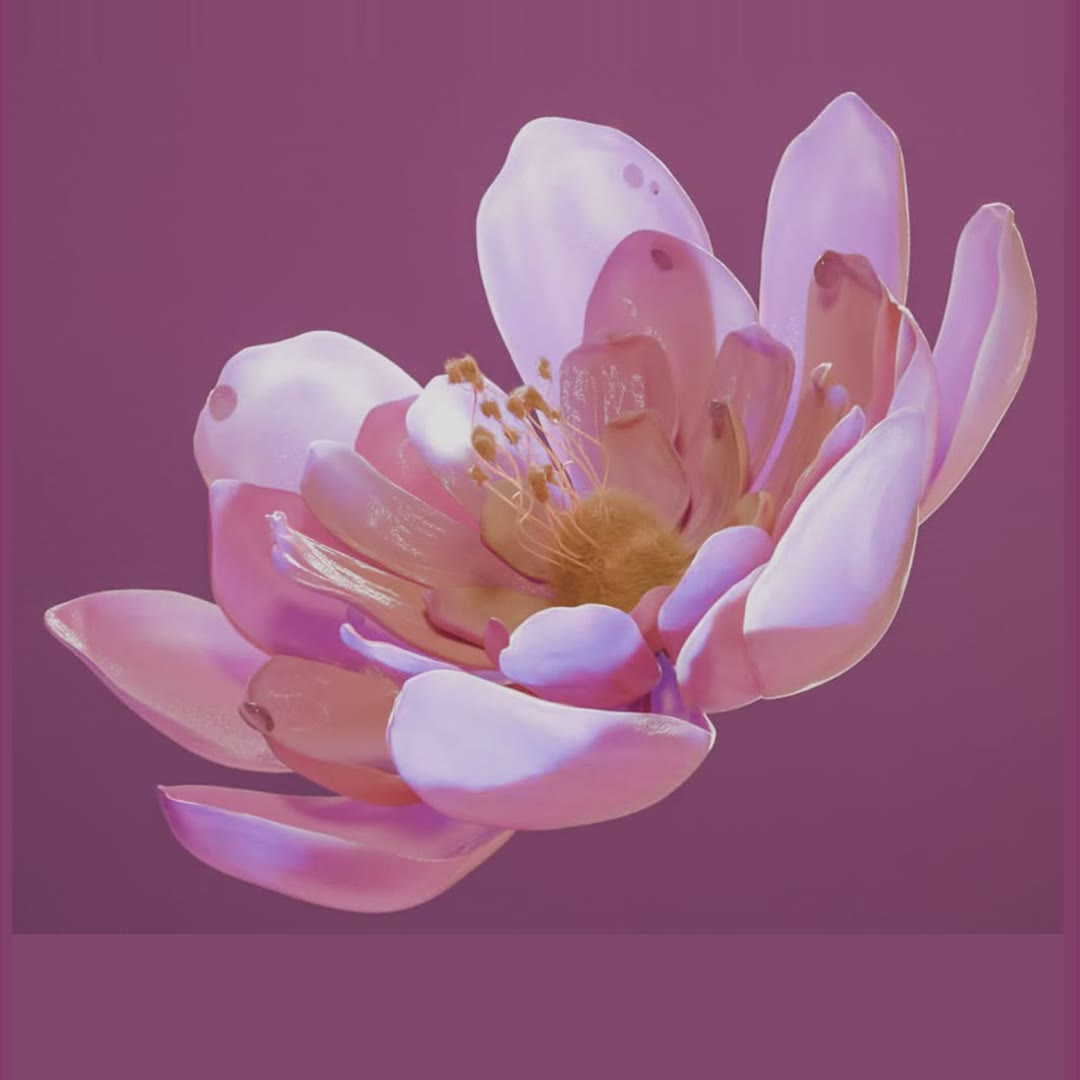
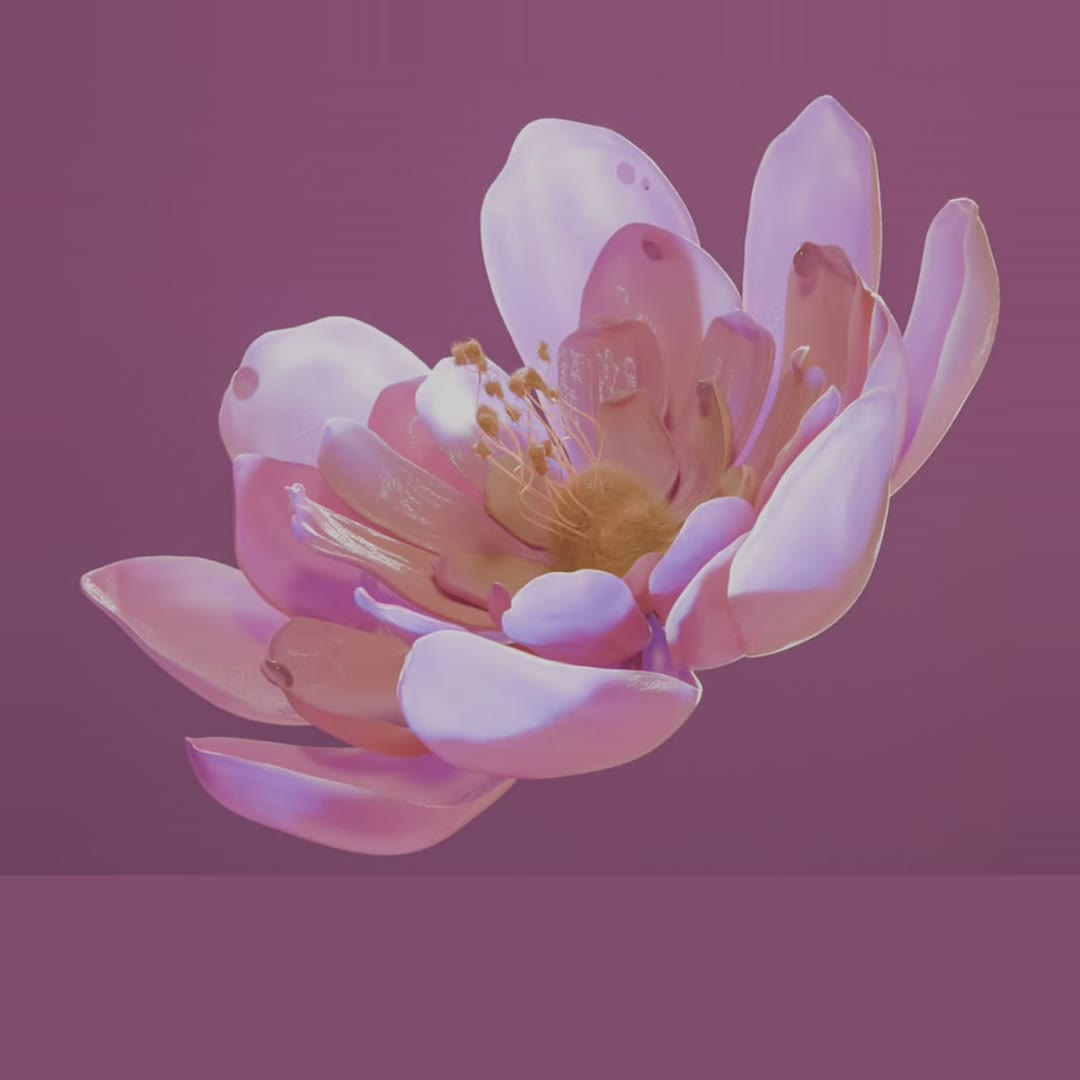
Match pink flower size/position to clay via overlay analysis (0.94x)
Use a colour-coded clay/pink overlay plus an overlap search to find the
best geometric match: scale the pink flower to 0.94x about its centre so
its silhouette (top-left petal, stamens, outer petals) lines up with the
clay stage instead of sitting oversized. Bump cache-bust to v10. Residual
top-left offset is the pink render's different camera angle.

Changed region(s): [[0.0306, 0.0611, 0.9778, 0.8556], [0.4583, 0.1222, 0.4889, 0.1528]]

diff --git a/index.html b/index.html
@@ -41,9 +41,9 @@
     <div class="hero-track" id="heroTrack">
       <div class="hero-sticky">
         <div class="hero-bg" aria-hidden="true">
-          <div class="hero-layer" style="background-image:url('images/hero.jpeg?v=9')"></div>
-          <div class="hero-layer" style="background-image:url('images/flower-grey.jpeg?v=9')"></div>
-          <div class="hero-layer" style="background-image:url('images/flower-pink.jpeg?v=9')"></div>
+          <div class="hero-layer" style="background-image:url('images/hero.jpeg?v=10')"></div>
+          <div class="hero-layer" style="background-image:url('images/flower-grey.jpeg?v=10')"></div>
+          <div class="hero-layer" style="background-image:url('images/flower-pink.jpeg?v=10')"></div>
         </div>
         <div class="container hero-inner">
           <p class="hero-eyebrow">👋 Hi, my name is</p>
